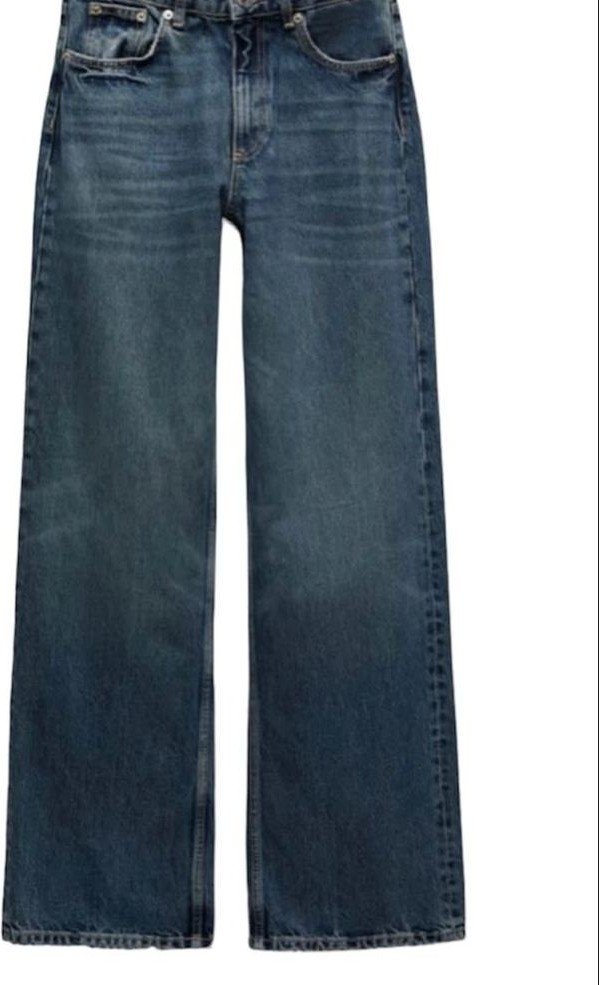
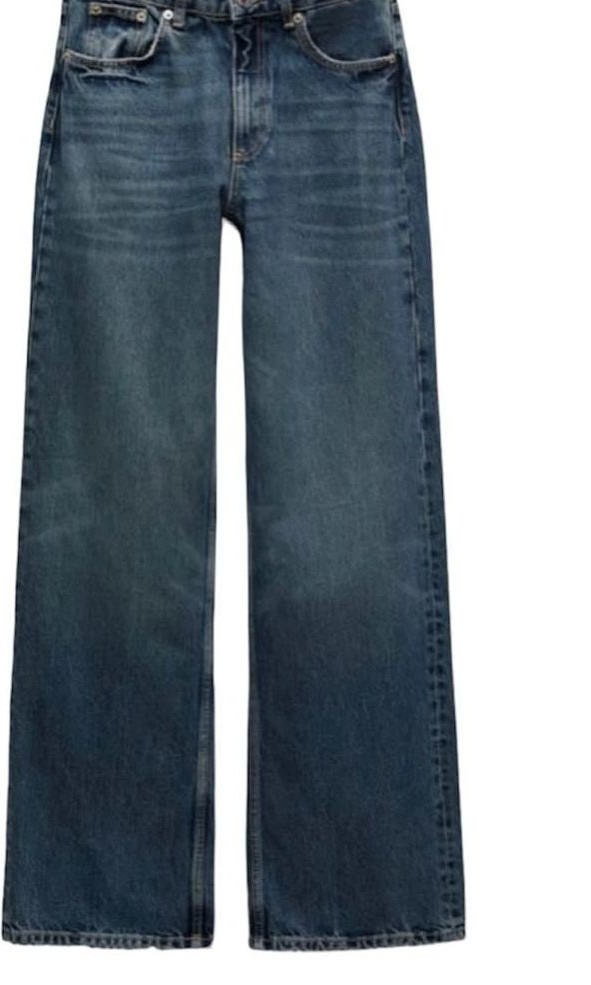
Add cargo photo, revert hero to placeholder, fix mobile scroll
- Distressed Cargo now has a real photo (dark wide-leg jeans); cropped
  a 1px dark edge artifact off both this and the WRAPP Denim image —
  same defect on both, likely from whatever tool produced the source
  files, invisible until scaled up in the browser.
- Hero goes back to the abstract gradient placeholder and its original
  background, per request — only the four garment moments and the
  gallery keep real photography.
- Lenis now skips initialization on touch devices (coarse pointer, or
  a phone-width viewport as a fallback signal) so phones get native
  scroll instead of a smoothing layer that can end up fighting touch
  input. Also set ScrollTrigger's ignoreMobileResize so address-bar
  show/hide during scroll doesn't trigger recalculation.

diff --git a/src/style.css b/src/style.css
@@ -235,11 +235,12 @@ h1, h2, h3 { text-wrap: balance; margin: 0; font-weight: 400; }
 
 /* Real garment photography — flat product shots on white, so they float
    fully visible inside the frame rather than bleeding/cropping edge to
-   edge like the placeholder studies above. Background matches the page
-   token (not a fixed white) so the frame reads as part of the page rather
-   than a separate white card sitting on it. */
+   edge like the placeholder studies above. Pure white, matching both the
+   source photos' own background and the .moment/.gallery band around it —
+   any token-based off-white would show a seam against the photographed
+   white. */
 .figure.photo {
-  background: var(--paper);
+  background: #ffffff;
   display: flex;
   align-items: center;
   justify-content: center;
@@ -268,6 +269,11 @@ h1, h2, h3 { text-wrap: balance; margin: 0; font-weight: 400; }
 /* ---------- garment moments ---------- */
 .moment {
   padding: clamp(60px, 12vh, 140px) var(--gutter);
+  /* Pure white, not the page's --paper token: every moment now carries a
+     real product photo, and a hard white band reads as intentional against
+     the off-white hero/statement/footer instead of leaving a seam where a
+     photographed white background meets a warmer page tone. */
+  background: #ffffff;
 }
 .moment-inner {
   display: grid;
@@ -352,7 +358,7 @@ h1, h2, h3 { text-wrap: balance; margin: 0; font-weight: 400; }
 .gallery {
   position: relative;
   overflow: hidden;
-  background: var(--paper-2);
+  background: #ffffff;
 }
 .gallery-head {
   padding: 90px var(--gutter) 0;

diff --git a/src/lib/lenis.js b/src/lib/lenis.js
@@ -3,17 +3,28 @@ import { gsap, ScrollTrigger, prefersReducedMotion } from "./gsap.js";
 
 let lenis = null;
 
+// Two independent signals, either one enough to opt out of Lenis: a coarse
+// pointer (the reliable "this is a touchscreen" check on real devices) or a
+// narrow viewport (a phone-width fallback in case pointer/hover media
+// features aren't reported the way a given browser context expects).
+const isTouchDevice = () =>
+  window.matchMedia("(hover: none) and (pointer: coarse)").matches ||
+  window.matchMedia("(max-width: 640px)").matches;
+
 /**
  * Creates the Lenis smooth-scroll instance and wires it into GSAP's ticker
  * so ScrollTrigger reads Lenis's virtual scroll position instead of the
  * raw (stepped) native scroll — this is what keeps scrubbed animations
  * perfectly in sync with the smoothed scroll feel.
  *
- * Skipped entirely under prefers-reduced-motion: native scroll stays in
- * control and ScrollTrigger falls back to listening to it directly.
+ * Skipped under prefers-reduced-motion (native scroll stays in control and
+ * ScrollTrigger listens to it directly) and on touch devices — phones are
+ * where a smooth-scroll library fighting the browser's own touch handling
+ * is most likely to make scrolling feel unresponsive, so native wins there
+ * every time rather than risking that for a polish effect.
  */
 export function initSmoothScroll() {
-  if (prefersReducedMotion()) return null;
+  if (prefersReducedMotion() || isTouchDevice()) return null;
 
   lenis = new Lenis({
     duration: 1.1,

diff --git a/index.html b/index.html
@@ -32,7 +32,11 @@
       <h1 class="hero-wordmark" id="hero-wordmark" data-reveal="hero">WRAPP</h1>
 
       <div class="hero-figure" aria-hidden="true" data-reveal="hero">
-        <div class="figure photo"><img src="/images/trench.png" alt="" loading="eager" /></div>
+        <div class="figure">
+          <div class="cloth"></div>
+          <div class="cloth b"></div>
+          <div class="grain"></div>
+        </div>
       </div>
 
       <div class="hero-scroll" aria-hidden="true">
@@ -126,7 +130,7 @@
           <div class="moment-caption"><span class="moment-index">04</span><h3 class="moment-name">Frayed Trench</h3><p class="moment-price">$1,240</p></div>
         </article>
         <article class="gallery-item">
-          <div class="moment-media"><div class="figure"><div class="cloth"></div><div class="cloth b"></div><div class="grain"></div></div></div>
+          <div class="moment-media"><div class="figure photo"><img src="/images/cargo.jpg" alt="Distressed Cargo jeans" loading="lazy" /></div></div>
           <div class="moment-caption"><span class="moment-index">05</span><h3 class="moment-name">Distressed Cargo</h3><p class="moment-price">$460</p></div>
         </article>
         <article class="gallery-item">

diff --git a/src/lib/gsap.js b/src/lib/gsap.js
@@ -5,6 +5,12 @@ import { SplitText } from "gsap/SplitText";
 
 gsap.registerPlugin(ScrollTrigger, Flip, SplitText);
 
+// Mobile browsers fire resize events when the address bar shows/hides
+// during scroll; without this, ScrollTrigger recalculates trigger
+// positions on every one of those and can make the page feel like it's
+// fighting the scroll.
+ScrollTrigger.config({ ignoreMobileResize: true });
+
 // Signature ease of the brand's motion language — a patient, gliding
 // ease-out. Used anywhere an element settles into place.
 export const EASE = "cubic-bezier(0.19, 1, 0.22, 1)";
